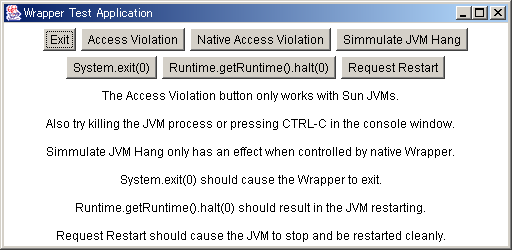
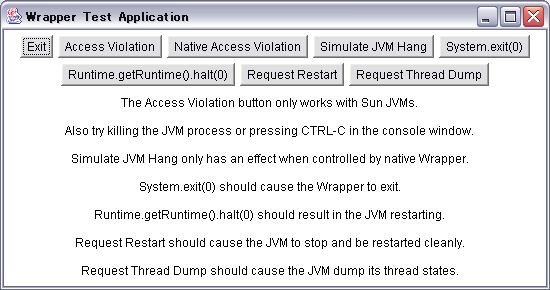
Add support for invoking a thread dump from a method call within the JVM.

diff --git a/trunk/wrapper/doc/english/release-notes.html b/trunk/wrapper/doc/english/release-notes.html
@@ -155,6 +155,15 @@
                 </p>
             
 </li>
+            
+<li>
+                
+<p align="justify">
+                    Implemented feature request #633178.  Added WrapperManager.requestThreadDump()
+                    to force the current JVM to immediately perform a thread dump.
+                </p>
+            
+</li>
         
 </ul>
     
@@ -165,7 +174,7 @@
 <br>
     
 <div>
-<a name="N400A3A"></a>
+<a name="N400A40"></a>
 <table cellspacing="0" cellpadding="2" border="0" width="100%">
 <tr>
 <td bgcolor="#525D76"><font face="arial,helvetica,sanserif" color="#ffffff" size="+1"><b>Version 2.2.9: Changes and bugfixes</b></font></td>
@@ -277,7 +286,7 @@
 <br>
     
 <div>
-<a name="N400A79"></a>
+<a name="N400A7F"></a>
 <table cellspacing="0" cellpadding="2" border="0" width="100%">
 <tr>
 <td bgcolor="#525D76"><font face="arial,helvetica,sanserif" color="#ffffff" size="+1"><b>Version 2.2.8: Changes and bugfixes</b></font></td>
@@ -414,7 +423,7 @@
 <br>
     
 <div>
-<a name="N400ABE"></a>
+<a name="N400AC4"></a>
 <table cellspacing="0" cellpadding="2" border="0" width="100%">
 <tr>
 <td bgcolor="#525D76"><font face="arial,helvetica,sanserif" color="#ffffff" size="+1"><b>Version 2.2.7: Changes and bugfixes</b></font></td>
@@ -547,7 +556,7 @@
 <br>
     
 <div>
-<a name="N400B1F"></a>
+<a name="N400B25"></a>
 <table cellspacing="0" cellpadding="2" border="0" width="100%">
 <tr>
 <td bgcolor="#525D76"><font face="arial,helvetica,sanserif" color="#ffffff" size="+1"><b>Version 2.2.6: Changes and bugfixes</b></font></td>
@@ -608,7 +617,7 @@
 <br>
     
 <div>
-<a name="N400B46"></a>
+<a name="N400B4C"></a>
 <table cellspacing="0" cellpadding="2" border="0" width="100%">
 <tr>
 <td bgcolor="#525D76"><font face="arial,helvetica,sanserif" color="#ffffff" size="+1"><b>Version 2.2.5: Changes and bugfixes</b></font></td>
@@ -685,7 +694,7 @@
 <br>
     
 <div>
-<a name="N400B79"></a>
+<a name="N400B7F"></a>
 <table cellspacing="0" cellpadding="2" border="0" width="100%">
 <tr>
 <td bgcolor="#525D76"><font face="arial,helvetica,sanserif" color="#ffffff" size="+1"><b>Version 2.2.4: Changes and bugfixes</b></font></td>
@@ -754,7 +763,7 @@
 <br>
     
 <div>
-<a name="N400BA6"></a>
+<a name="N400BAC"></a>
 <table cellspacing="0" cellpadding="2" border="0" width="100%">
 <tr>
 <td bgcolor="#525D76"><font face="arial,helvetica,sanserif" color="#ffffff" size="+1"><b>Version 2.2.3: Changes and bugfixes</b></font></td>
@@ -839,7 +848,7 @@
 <br>
     
 <div>
-<a name="N400BE3"></a>
+<a name="N400BE9"></a>
 <table cellspacing="0" cellpadding="2" border="0" width="100%">
 <tr>
 <td bgcolor="#525D76"><font face="arial,helvetica,sanserif" color="#ffffff" size="+1"><b>Version 2.2.2: Changes and bugfixes</b></font></td>
@@ -868,7 +877,7 @@
 <br>
     
 <div>
-<a name="N400BF2"></a>
+<a name="N400BF8"></a>
 <table cellspacing="0" cellpadding="2" border="0" width="100%">
 <tr>
 <td bgcolor="#525D76"><font face="arial,helvetica,sanserif" color="#ffffff" size="+1"><b>Version 2.2.1: Changes and bugfixes</b></font></td>
@@ -905,7 +914,7 @@
 <br>
     
 <div>
-<a name="N400C07"></a>
+<a name="N400C0D"></a>
 <table cellspacing="0" cellpadding="2" border="0" width="100%">
 <tr>
 <td bgcolor="#525D76"><font face="arial,helvetica,sanserif" color="#ffffff" size="+1"><b>Version 2.2.0: Changes and bugfixes</b></font></td>

diff --git a/trunk/wrapper/src/java/com/silveregg/wrapper/test/Main.java b/trunk/wrapper/src/java/com/silveregg/wrapper/test/Main.java
@@ -26,6 +26,9 @@ package com.silveregg.wrapper.test;
  */
 
 // $Log$
+// Revision 1.8  2002/11/06 05:44:51  mortenson
+// Add support for invoking a thread dump from a method call within the JVM.
+//
 // Revision 1.7  2002/06/02 11:38:42  mortenson
 // Increase window size so that the window displays on XP correctly.
 //
@@ -102,14 +105,19 @@ public class Main implements WrapperListener {
             add(rsButton);
             rsButton.addActionListener(this);
             
+            Button tdButton = new Button("Request Thread Dump");
+            add(tdButton);
+            tdButton.addActionListener(this);
+            
             add(new Label("The Access Violation button only works with Sun JVMs."));
             add(new Label("Also try killing the JVM process or pressing CTRL-C in the console window."));
             add(new Label("Simulate JVM Hang only has an effect when controlled by native Wrapper."));
             add(new Label("System.exit(0) should cause the Wrapper to exit."));
             add(new Label("Runtime.getRuntime().halt(0) should result in the JVM restarting."));
             add(new Label("Request Restart should cause the JVM to stop and be restarted cleanly."));
+            add(new Label("Request Thread Dump should cause the JVM dump its thread states."));
             
-            setSize(new Dimension(512, 260));
+            setSize(new Dimension(550, 290));
         }
         
         public void actionPerformed(ActionEvent event) {
@@ -128,6 +136,8 @@ public class Main implements WrapperListener {
                 Runtime.getRuntime().halt(0);
             } else if (command.equals("Request Restart")) {
                 WrapperManager.restart();
+            } else if (command.equals("Request Thread Dump")) {
+                WrapperManager.requestThreadDump();
             }
         }
     }

diff --git a/trunk/wrapper/src/java/com/silveregg/wrapper/WrapperManager.java b/trunk/wrapper/src/java/com/silveregg/wrapper/WrapperManager.java
@@ -26,6 +26,9 @@ package com.silveregg.wrapper;
  */
 
 // $Log$
+// Revision 1.29  2002/11/06 05:44:52  mortenson
+// Add support for invoking a thread dump from a method call within the JVM.
+//
 // Revision 1.28  2002/11/02 04:41:45  mortenson
 // Improve the message thrown when user code attempts to access System.in from
 // within a JVM being controlled by the Wrapper.  System.in will not work
@@ -477,7 +480,7 @@ public final class WrapperManager implements Runnable {
      *-------------------------------------------------------------*/
     private static native void nativeInit(boolean debug);
     private static native int nativeGetControlEvent();
-    
+    private static native void nativeRequestThreadDump();
     private static native void accessViolationInner();
     
     /*---------------------------------------------------------------
@@ -503,6 +506,21 @@ public final class WrapperManager implements Runnable {
      */
     public static int getJVMId() {
         return _jvmId;
+    }
+    
+    /**
+     * Requests that the current JVM process request a thread dump.  This is
+     *  the same as pressing CTRL-BREAK (under Windows) or CTRL-\ (under Unix)
+     *  in the the console in which Java is running.  This method does nothing
+     *  if the native library is not loaded.
+     */
+    public static void requestThreadDump() {
+        System.out.println("Dumping JVM state.");
+        if (_libraryOK) {
+            nativeRequestThreadDump();
+        } else {
+            System.out.println("  wrapper library not loaded.");
+        }
     }
     
     /**

diff --git a/trunk/wrapper/src/c/wrapperjni_win.c b/trunk/wrapper/src/c/wrapperjni_win.c
@@ -24,6 +24,9 @@
  *
  *
  * $Log$
+ * Revision 1.6  2002/11/06 05:44:51  mortenson
+ * Add support for invoking a thread dump from a method call within the JVM.
+ *
  * Revision 1.5  2002/03/07 09:23:25  mortenson
  * Go through and change the style of comments that we use so that they will not
  * cause compiler errors on older unix compilers.
@@ -58,6 +61,8 @@ barf
 
 #include <windows.h>
 #include "wrapperjni.h"
+
+static DWORD wrapperProcessId = 0;
 
 /**
  * Handler to take care of the case where the user hits CTRL-C when the wrapper
@@ -130,5 +135,26 @@ Java_com_silveregg_wrapper_WrapperManager_nativeInit(JNIEnv *env, jclass clazz, 
 
     /* Initialize the CTRL-C handler */
     SetConsoleCtrlHandler((PHANDLER_ROUTINE)wrapperConsoleHandler, TRUE);
+
+	/* Store the current process Id */
+	wrapperProcessId = GetCurrentProcessId();
 }
+
+/*
+ * Class:     com_silveregg_wrapper_WrapperManager
+ * Method:    nativeRequestThreadDump
+ * Signature: ()V
+ */
+JNIEXPORT void JNICALL
+Java_com_silveregg_wrapper_WrapperManager_nativeRequestThreadDump(JNIEnv *env, jclass clazz) {
+    if (wrapperJNIDebugging) {
+	    printf("Sending BREAK event to process group %ld.\n", wrapperProcessId);
+	    flushall();
+	}
+    if ( GenerateConsoleCtrlEvent( CTRL_BREAK_EVENT, wrapperProcessId ) == 0 ) {
+        printf("Unable to send BREAK event to JVM process.  Err(%ld)\n", GetLastError());
+	    flushall();
+    }
+}
+
 #endif

diff --git a/trunk/wrapper/src/java/com/silveregg/wrapper/test/TestAction.java b/trunk/wrapper/src/java/com/silveregg/wrapper/test/TestAction.java
@@ -26,6 +26,9 @@ package com.silveregg.wrapper.test;
  */
 
 // $Log$
+// Revision 1.3  2002/11/06 05:44:51  mortenson
+// Add support for invoking a thread dump from a method call within the JVM.
+//
 // Revision 1.2  2002/05/24 00:44:47  mortenson
 // Show an error message if an unknown action is passed to the test.
 //
@@ -104,6 +107,8 @@ public class TestAction implements WrapperListener {
                 Runtime.getRuntime().halt(0);
             } else if (_action.equals("restart")) {
                 WrapperManager.restart();
+            } else if (_action.equals("dump")) {
+                WrapperManager.requestThreadDump();
             } else {
                 printHelp("\"" + _action + "\" is an unknown action.");
                 WrapperManager.stop(0);
@@ -156,6 +161,7 @@ public class TestAction implements WrapperListener {
         System.err.println( "   appear_hung              : Calls WrapperManager.appearHung()" );
         System.err.println( "   halt                     : Calls Runtime.getRuntime().halt(0)" );
         System.err.println( "   restart                  : Calls WrapperManager.restart()" );
+        System.err.println( "   dump                     : Calls WrapperManager.requestThreadDump()" );
         System.err.println( "" );
         System.err.println( "[EXAMPLE]" );
         System.err.println( "   TestAction access_violation_native " );

diff --git a/trunk/wrapper/src/c/com_silveregg_wrapper_WrapperManager.h b/trunk/wrapper/src/c/com_silveregg_wrapper_WrapperManager.h
@@ -93,6 +93,14 @@ JNIEXPORT jint JNICALL Java_com_silveregg_wrapper_WrapperManager_nativeGetContro
 JNIEXPORT void JNICALL Java_com_silveregg_wrapper_WrapperManager_accessViolationInner
   (JNIEnv *, jclass);
 
+/*
+ * Class:     com_silveregg_wrapper_WrapperManager
+ * Method:    nativeRequestThreadDump
+ * Signature: ()V
+ */
+JNIEXPORT void JNICALL Java_com_silveregg_wrapper_WrapperManager_nativeRequestThreadDump
+  (JNIEnv *, jclass);
+
 #ifdef __cplusplus
 }
 #endif
